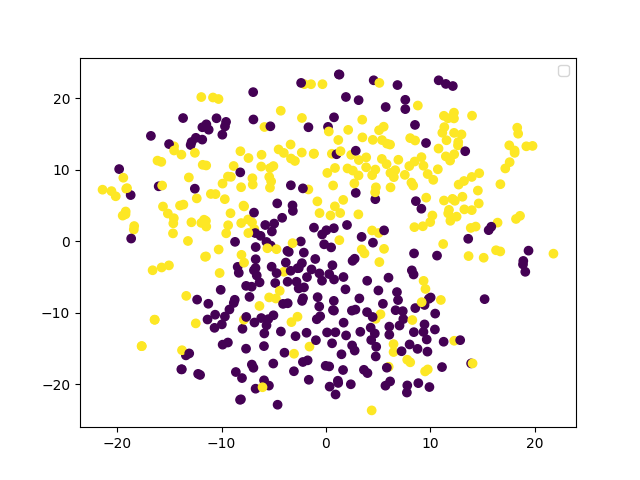
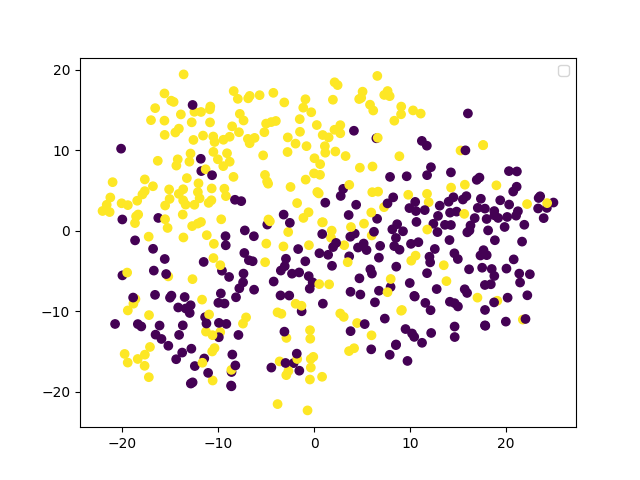
done

diff --git a/hw9/model.py b/hw9/model.py
@@ -1,5 +1,5 @@
 import torch.nn as nn
-
+#
 # class AE(nn.Module):
 #     def __init__(self):
 #         super(AE, self).__init__()
@@ -29,35 +29,91 @@ import torch.nn as nn
 #         x1 = self.encoder(x)
 #         x = self.decoder(x1)
 #         return x1, x
-
+#
+# class AE(nn.Module):
+#     def __init__(self):
+#         super(AE, self).__init__()
+#
+#         self.encoder = nn.Sequential(
+#             nn.Conv2d(3, 64, 3, stride=1, padding=1),
+#             nn.BatchNorm2d(64),
+#             nn.ReLU(True),
+#             nn.MaxPool2d(2),
+#             nn.Conv2d(64, 128, 3, stride=1, padding=1),
+#             nn.BatchNorm2d(128),
+#             nn.ReLU(True),
+#             nn.MaxPool2d(2),
+#             nn.Conv2d(128, 256, 3, stride=1, padding=1),
+#             nn.BatchNorm2d(256),
+#             nn.ReLU(True),
+#             nn.MaxPool2d(2)
+#         )
+#
+#         self.decoder = nn.Sequential(
+#             nn.ConvTranspose2d(256, 128, 5, stride=1),
+#             nn.BatchNorm2d(128),
+#             nn.ReLU(True),
+#             nn.ConvTranspose2d(128, 64, 9, stride=1),
+#             nn.BatchNorm2d(64),
+#             nn.ReLU(True),
+#             nn.ConvTranspose2d(64, 3, 17, stride=1),
+#             # nn.BatchNorm2d(3),
+#             nn.Tanh()
+#         )
+#
+#     def forward(self, x):
+#         x1 = self.encoder(x)
+#         x = self.decoder(x1)
+#         return x1, x
+#
 class AE(nn.Module):
     def __init__(self):
         super(AE, self).__init__()
 
         self.encoder = nn.Sequential(
             nn.Conv2d(3, 64, 3, stride=1, padding=1),
-            # nn.BatchNorm2d(64),
+            nn.BatchNorm2d(64),
             nn.ReLU(True),
+            nn.Conv2d(64, 64, 3, stride=1, padding=1),
+            nn.BatchNorm2d(64),
+            nn.ReLU(True),
+
             nn.MaxPool2d(2),
+
             nn.Conv2d(64, 128, 3, stride=1, padding=1),
-            # nn.BatchNorm2d(128),
+            nn.BatchNorm2d(128),
             nn.ReLU(True),
+            nn.Conv2d(128, 128, 3, stride=1, padding=1),
+            nn.BatchNorm2d(128),
+            nn.ReLU(True),
+
             nn.MaxPool2d(2),
+
             nn.Conv2d(128, 256, 3, stride=1, padding=1),
-            # nn.BatchNorm2d(256),
+            nn.BatchNorm2d(256),
             nn.ReLU(True),
+            nn.Conv2d(256, 256, 3, stride=1, padding=1),
+            nn.BatchNorm2d(256),
+            nn.ReLU(True),
+
             nn.MaxPool2d(2)
         )
 
         self.decoder = nn.Sequential(
             nn.ConvTranspose2d(256, 128, 5, stride=1),
-            # nn.BatchNorm2d(128),
+            nn.BatchNorm2d(128),
             nn.ReLU(True),
+
+
             nn.ConvTranspose2d(128, 64, 9, stride=1),
-            # nn.BatchNorm2d(64),
+            nn.BatchNorm2d(64),
             nn.ReLU(True),
+
+
+
+
             nn.ConvTranspose2d(64, 3, 17, stride=1),
-            # nn.BatchNorm2d(3),
+
             nn.Tanh()
         )
 
@@ -65,4 +121,89 @@ class AE(nn.Module):
         x1 = self.encoder(x)
         x = self.decoder(x1)
         return x1, x
+
+
+#
+# class AE(nn.Module):
+#     def __init__(self):
+#         super(AE, self).__init__()
+#
+#         self.encoder = nn.Sequential(
+#             nn.Conv2d(3, 64, 3, stride=1, padding=1),
+#             nn.BatchNorm2d(64),
+#             nn.ReLU(True),
+#             nn.Conv2d(64, 64, 3, stride=1, padding=1),
+#             nn.BatchNorm2d(64),
+#             nn.ReLU(True),
+#
+#             nn.MaxPool2d(2),
+#
+#             nn.Conv2d(64, 128, 3, stride=1, padding=1),
+#             nn.BatchNorm2d(128),
+#             nn.ReLU(True),
+#             nn.Conv2d(128, 128, 3, stride=1, padding=1),
+#             nn.BatchNorm2d(128),
+#             nn.ReLU(True),
+#
+#             nn.MaxPool2d(2),
+#
+#             nn.Conv2d(128, 256, 3, stride=1, padding=1),
+#             nn.BatchNorm2d(256),
+#             nn.ReLU(True),
+#             nn.Conv2d(256, 256, 3, stride=1, padding=1),
+#             nn.BatchNorm2d(256),
+#             nn.ReLU(True),
+#
+#             nn.MaxPool2d(2),
+#
+#             nn.Conv2d(256, 256, 3, stride=1, padding=1),
+#             nn.BatchNorm2d(256),
+#             nn.ReLU(True),
+#
+#             nn.MaxPool2d(2),
+#
+#             nn.Conv2d(256, 256, 2, stride=1, padding=1),
+#             nn.BatchNorm2d(256),
+#             nn.ReLU(True),
+#
+#             nn.MaxPool2d(2)
+#         )
+#
+#         self.decoder = nn.Sequential(
+#             nn.ConvTranspose2d(256, 128, 3, stride=1),
+#             nn.BatchNorm2d(128),
+#             nn.ReLU(True),
+#             #
+#             nn.ConvTranspose2d(128, 64, 5, stride=1),
+#             nn.BatchNorm2d(64),
+#             nn.ReLU(True),
+#             #
+#             nn.ConvTranspose2d(64, 32, 9, stride=1),
+#             nn.BatchNorm2d(32),
+#             nn.ReLU(True),
+#
+#             nn.ConvTranspose2d(32, 3, 18, stride=1),
+#             # nn.BatchNorm2d(3),
+#             # nn.ReLU(True),
+#             #
+#             # nn.ConvTranspose2d(16,3 , 8, stride=1),
+#             # nn.BatchNorm2d(3),
+#             # nn.ReLU(True)
+#
+#             # nn.ConvTranspose2d(128, 64, 9, stride=1),
+#             # nn.BatchNorm2d(64),
+#             # nn.ReLU(True),
+#             #
+#             #
+#             #
+#             #
+#             # nn.ConvTranspose2d(64, 3, 17, stride=1),
+#
+#             nn.Tanh()
+#         )
+#
+#     def forward(self, x):
+#         x1 = self.encoder(x)
+#         x = self.decoder(x1)
+#         return x1, x
 

diff --git a/hw9/inference.py b/hw9/inference.py
@@ -13,12 +13,13 @@ from sklearn.manifold import TSNE
 from sklearn.cluster import MiniBatchKMeans
 def predict(latents):
     # First Dimension Reduction
-    transformer = KernelPCA(n_components=200, kernel='rbf', n_jobs=-1)
+    transformer = KernelPCA(n_components=500, kernel='rbf', n_jobs=-1)
     kpca = transformer.fit_transform(latents)
     print('First Reduction Shape:', kpca.shape)
-
+    #
     # # Second Dimesnion Reduction
     X_embedded = TSNE(n_components=2).fit_transform(kpca)
+    # X_embedded = TSNE(n_components=2).fit_transform(latents)
     print('Second Reduction Shape:', X_embedded.shape)
 
     # Clustering

diff --git a/hw9/problem1.py b/hw9/problem1.py
@@ -20,7 +20,8 @@ valY = np.load(root + 'valY.npy')
 #  report 請同學另外還要再畫一張 improved model 的圖。
 # ==============================================
 model = AE().cuda()
-model.load_state_dict(torch.load(root +  'ckpt/' + func +  'last_checkpoint.pth'))
+# model.load_state_dict(torch.load(root +  'ckpt/' + func +  'last_checkpoint.pth'))
+model.load_state_dict(torch.load(root +  'ckpt/' + "8/"+  'checkpoint_80.pth'))
 model.eval()
 latents = inference(valX, model)
 pred_from_latent, emb_from_latent = predict(latents)

diff --git a/hw9/problem2.py b/hw9/problem2.py
@@ -15,7 +15,8 @@ trainX = np.load(root  + 'trainX.npy')
 trainX_preprocessed = preprocess(trainX)
 img_dataset = Image_Dataset(trainX_preprocessed)
 model = AE().cuda()
-model.load_state_dict(torch.load(root + 'ckpt/' + func + 'last_checkpoint.pth'))
+# model.load_state_dict(torch.load(root + 'ckpt/' + func + 'last_checkpoint.pth'))
+model.load_state_dict(torch.load(root +  'ckpt/' + func +  'checkpoint_80.pth'))
 model.eval()
 
 

diff --git a/hw9/dataset.py b/hw9/dataset.py
@@ -32,6 +32,7 @@ class Image_Dataset(Dataset):
             transforms.ToPILImage(),
 
             # transforms.RandomHorizontalFlip(),
+            # transforms.RandomVerticalFlip(),
             # transforms.RandomAffine(degrees=30,  # 旋转
             #                         scale=(0.8, 1),
             #                         shear=(20, 20),  # -20 20

diff --git a/hw9/train.py b/hw9/train.py
@@ -10,7 +10,7 @@ same_seeds(0)
 
 model = AE().cuda()
 criterion = nn.MSELoss()
-optimizer = torch.optim.Adam(model.parameters(), lr=1e-5, weight_decay=1e-5)
+optimizer = torch.optim.Adam(model.parameters(), lr=1e-3, weight_decay=1e-4)
 
 model.train()
 n_epoch = 100

diff --git a/hw9/config.py b/hw9/config.py
@@ -1,1 +1,1 @@
-func = "2/"
+func = "9/"

diff --git a/hw9/readme.md b/hw9/readme.md
@@ -9,9 +9,16 @@
 
 |*|改进方法|loss| p1 cluster | p2 | p3 | 
 |---| ---| ---|--- | ---- | ---- |
-|baseline 0|-|-|![p1](image_saved/0/p1.png)|![p1](image_saved/0/p2.png)|![p1](image_saved/0/p3.png)||
-|1|加上了BN|epoch [100/100], loss:5.06923|![p1](image_saved/1/p1.png)|  ![p2](image_saved/1/p2.png)|![ma](image_saved/1/p3.png)
-|2|[-1,1]->[0,1]的normalization 效果差了一些|-|0.649 ![p1](image_saved/2/p1.png)| ![p1](image_saved/2/p2.png)|![p1](image_saved/2/p3.png)|
+|baseline 0|-|-|0.636 ![p1](image_saved/0/p1.png)|![p1](image_saved/0/p2.png)|![p1](image_saved/0/p3.png)||
+|0-1|加上了BN|epoch [100/100], loss:5.06923|0.738 ![p1](image_saved/1/p1.png)|  ![p2](image_saved/1/p2.png)|![ma](image_saved/1/p3.png)
+|0-2|[-1,1]->[0,1]的normalization 去掉BN 效果差了一些|-|0.649 ![p1](image_saved/2/p1.png)| ![p1](image_saved/2/p2.png)|![p1](image_saved/2/p3.png)|
+|2-3|VH flip 数据增强 去掉BN|-|0.718 ![p1](image_saved/3/p1.png)| ![p1](image_saved/3/p2.png)|![p1](image_saved/3/p3.png)|
+|3-4|BN 和数据增强|epoch [100/100], loss:1.46576|0.778![p1](image_saved/4/p1.png)| ![p1](image_saved/4/p2.png)|![p1](image_saved/4/p3.png)|
+|4-5|通过调节学习率使之收敛,隐向量小狗恢复的还比较不错 |-|0.812![p1](image_saved/5/p1.png)| ![p1](image_saved/5/p2.png)|![p1](image_saved/5/p3.png)|
+|5-6|模型增大一倍 这个数据丢掉了 数据增强去掉了不小心|-|0.8![p1](image_saved/6/p1.png)| ![p1](image_saved/6/p2.png)|![p1](image_saved/7/p3.png)|
+|6-7 实际是6|之前的laten code 是（256，4，4） 改为（256，1，1）数据增强去掉了不小心|-|0.786 ![p1](image_saved/6/p1.png)| ![p1](image_saved/6/p2.png)|![p1](image_saved/6/p3.png)|
+|6-7 |翻卷集全部用stride=1 增加全局信息 并加上数据增强 维度太小学不出来了|-|0.794 ![p1](image_saved/7/p1.png)| ![p1](image_saved/7/p2.png)|![p1](image_saved/7/p3.png)|
 
-
-
+|8|模型增大一倍 code（256，4，4） +数据增强|-|0.794 ![p1](image_saved/8/p1.png)| ![p1](image_saved/8/p2.png)|![p1](image_saved/8/p3.png)|
+|9|8的模型，然后调节PCA 和TSNE 效果反而降低了
+laten code的维度大小要调试可以比原始数据多， 数据增强肯定要， 模型大小也需要
